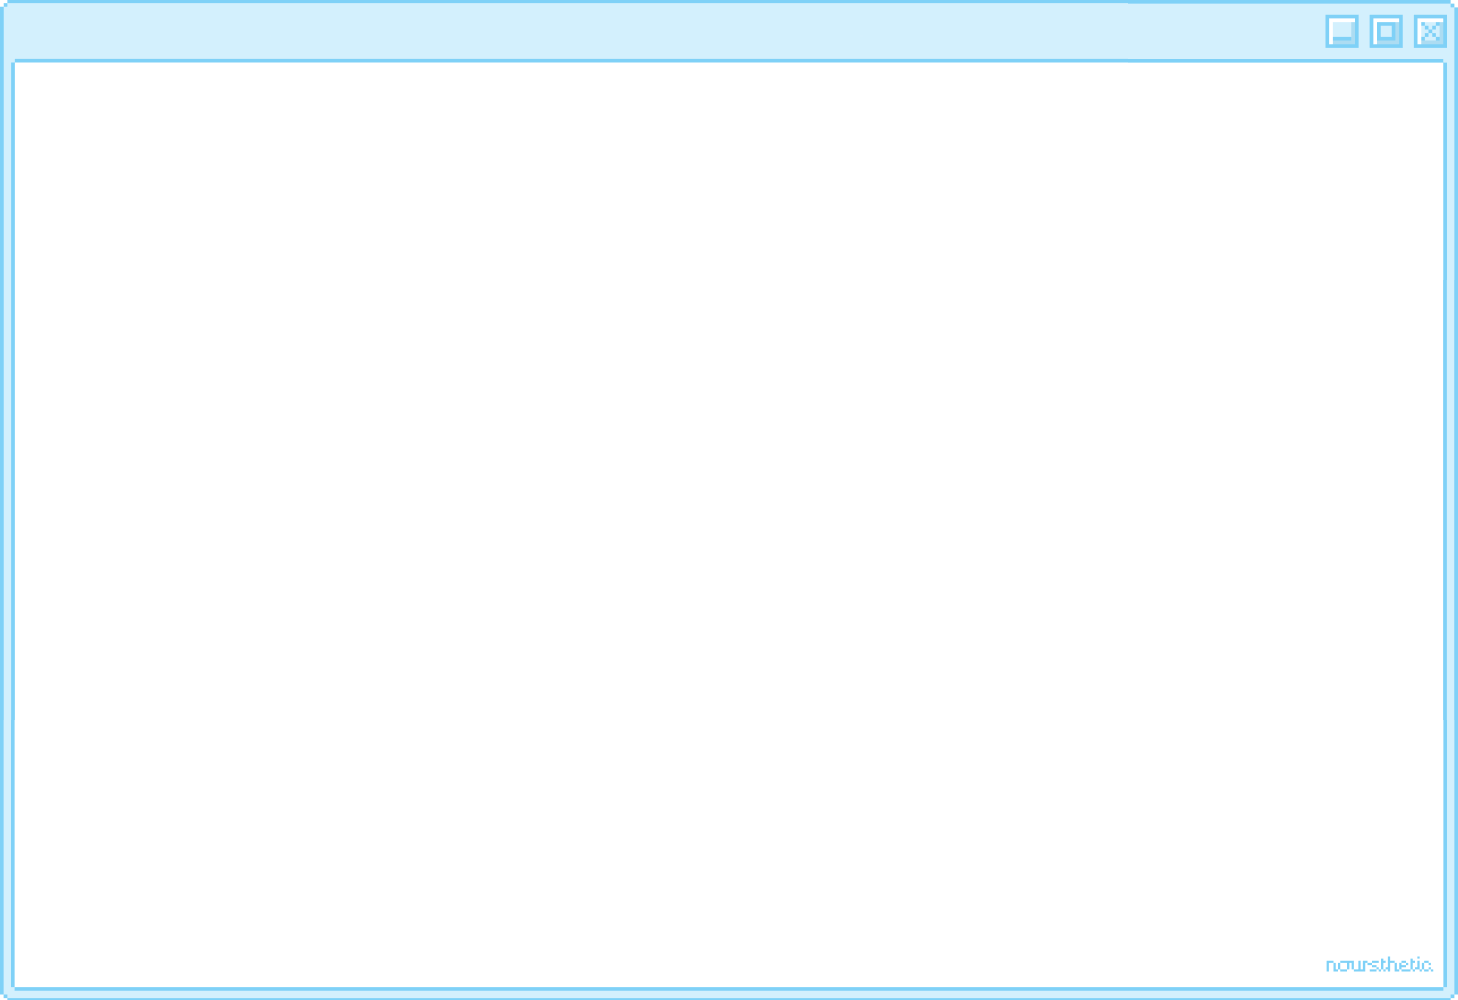
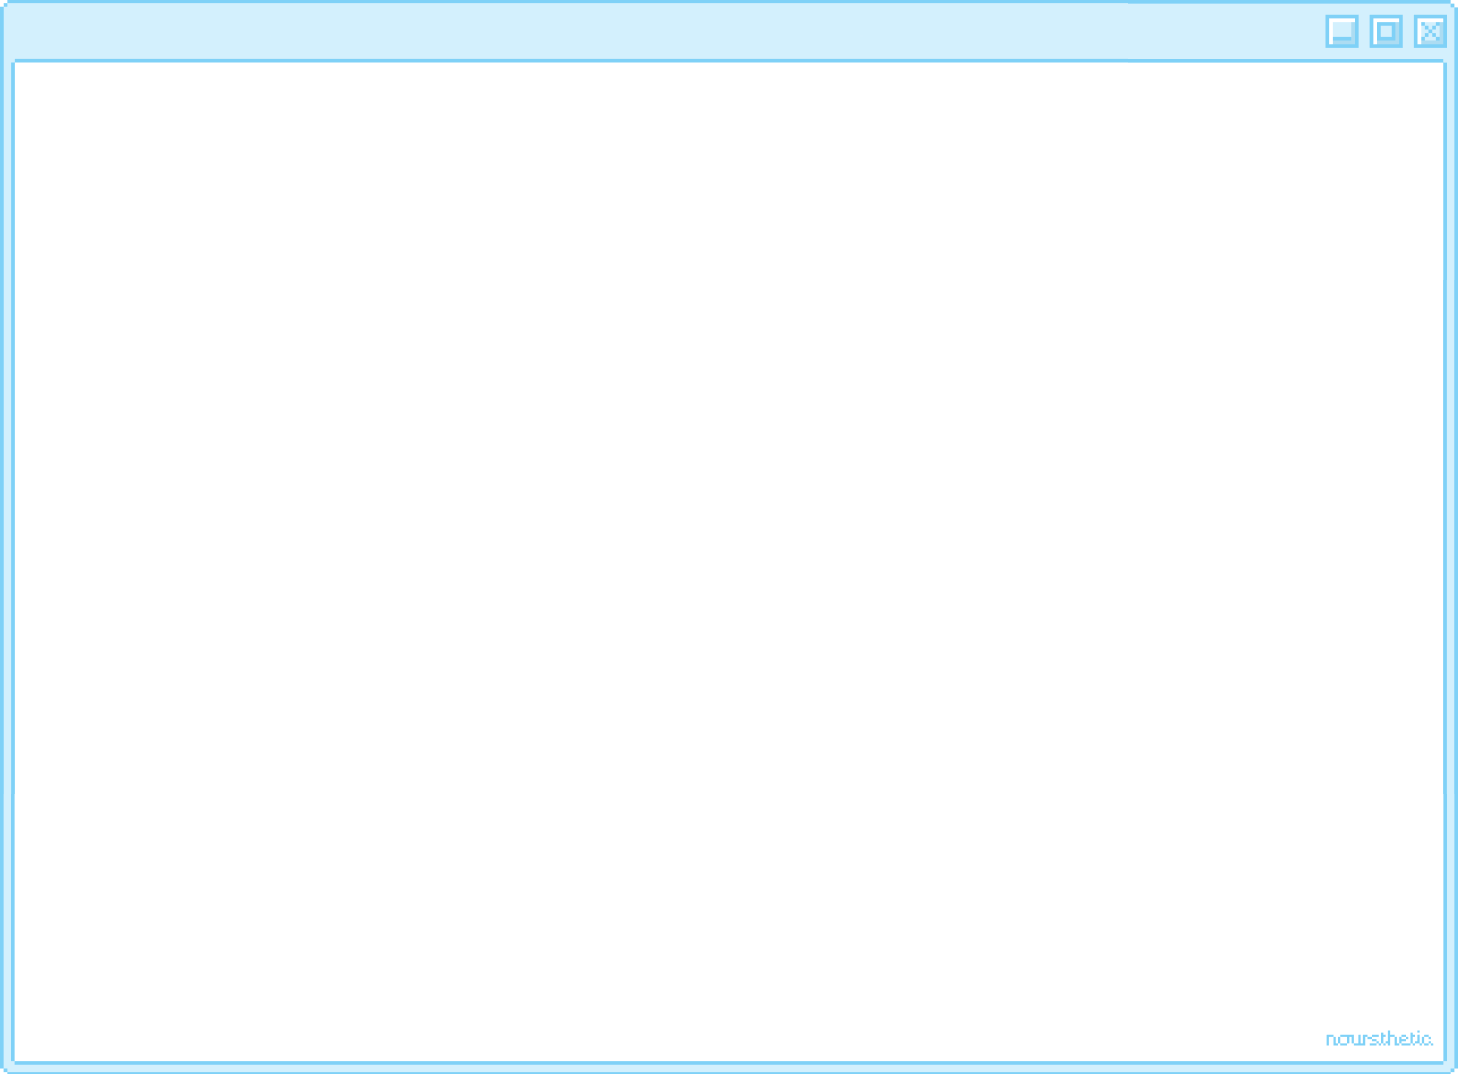
pixelating home screen

Changed region(s): [[0.0, 0.0, 1.0, 0.062], [0.8951, 0.961, 0.9877, 0.992]]

diff --git a/sketch.js b/sketch.js
@@ -38,18 +38,21 @@ let spriteSheet, userAnimation
 
 let folderTrolleyImg, folderJiraImg, folderChatImg, folderEmailImg
 let project, projectImg
+let toolBarImg
 
 function preload(){
-  jiraImg = loadImage('assets/jiraApp.png')
-  imsgImg = loadImage('assets/imsgApp.png')
-  emailImg = loadImage('assets/emailApp.png')
+  jiraImg = loadImage('assets/apps/jiraPixel.png')
+  imsgImg = loadImage('assets/apps/imsgPixel.png')
+  emailImg = loadImage('assets/apps/emailPixel.png')
+  notifImg = loadImage('assets/apps/notifPixel.png')
 
   folderTrolleyImg = loadImage('assets/folder/folderTrolley.png')
   folderJiraImg = loadImage('assets/folder/folderJira.png')
   folderChatImg = loadImage('assets/folder/folderChat.png')
   folderEmailImg = loadImage('assets/folder/folderEmail.png')
-
   projectImg = loadImage('assets/folder/project.png')
+
+  toolBarImg = loadImage('assets/pixelWindow/toolBar.png')
 
 
   // spriteSheet = loadSpriteSheet('assets/userSprite.png', 16, 16, 37)
@@ -110,6 +113,8 @@ function setup() {
   toolBar.color = 235
   toolBar.stroke = toolBar.color
   // toolBar.visible = false
+  toolBarImg.resize(900, 100)
+  toolBar.img = toolBarImg
 
   toolBarArray[9].w = 0
   toolBarArray[9].stroke = 0
@@ -146,9 +151,11 @@ function setup() {
   notif.stroke = 'red'
   notif.textColor = 255
   notif.textSize = 14
-  notif.text = '1'
+  // notif.text = '1'
   notif.d = 15
   notif.visible = true
+  notifImg.resize(15,15)
+  notif.img = notifImg
 
   ss1Notif = new notif.Sprite()
   ss1Notif.x = ss1App.x + notif.d*1.5
@@ -166,13 +173,14 @@ function setup() {
   folder.collider = 's'
   folder.color = color(150, 200, 255)
   folder.w = 75
-  folder.h = 50
+  folder.h = 100
   folder.x = width - (folder.w *2)
-  folder.y = folder.h *2.5
+  folder.y = (folder.h/2) *1.5
   folder.visible = true
   folder.textColor = 255
+  folder.debug=false
 
-  let vmargin = folder.h*1.5
+  let vmargin = (folder.h/2)*2.5
 
   project = new folder.Sprite()
   project.x = folder.x -5
@@ -180,22 +188,22 @@ function setup() {
   project.img = projectImg
 
   trolleyFolder = new folder.Sprite()
-  trolleyFolder.y = folder.y+ (folder.h + vmargin)
+  trolleyFolder.y = folder.y+ (vmargin)
   folderTrolleyImg.resize(75, 90)
   trolleyFolder.img = folderTrolleyImg
   
   ss1Folder = new folder.Sprite()
-  ss1Folder.y = folder.y + (folder.h + vmargin) *2
+  ss1Folder.y = folder.y + (vmargin *2)
   folderJiraImg.resize(75, 90)
   ss1Folder.img = folderJiraImg
 
   ss2Folder = new folder.Sprite()
-  ss2Folder.y = folder.y + (folder.h + vmargin) *3
+  ss2Folder.y = folder.y + (vmargin*3)
   folderChatImg.resize(75, 90)
   ss2Folder.img = folderChatImg
 
   ss3Folder = new folder.Sprite()
-  ss3Folder.y = folder.y+ (folder.h + vmargin)*4
+  ss3Folder.y = folder.y+ (vmargin *4)
   folderEmailImg.resize(75, 90)
   ss3Folder.img = folderEmailImg
 
